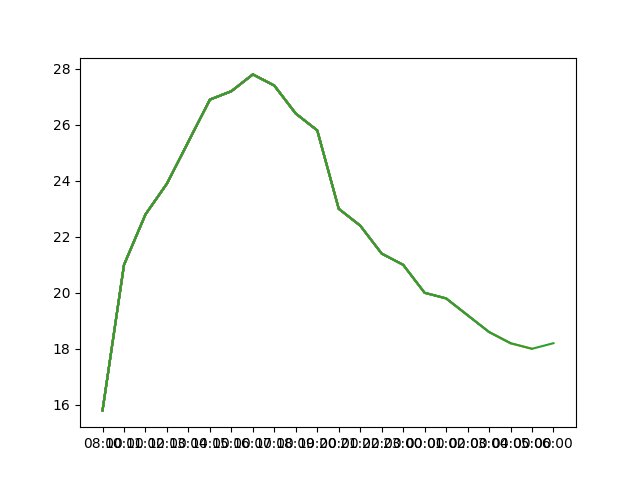
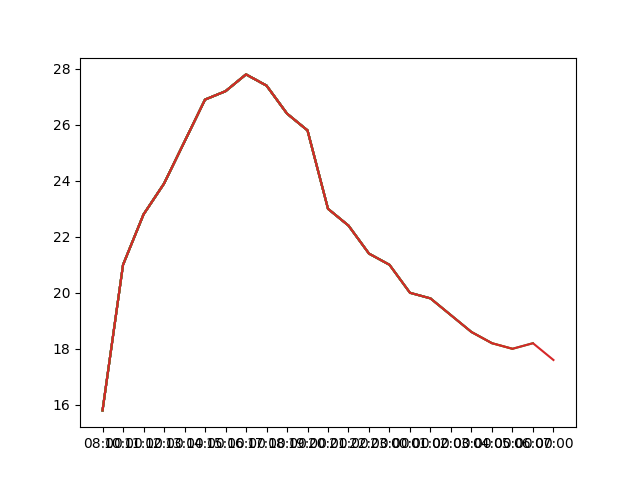
'updated'

diff --git a/index.html b/index.html
@@ -1,2 +1,2 @@
 <img src='graph.png'> 
-<table border="1"><tr><th>data</th><td><table border="1"><thead><tr><th>date</th><th>hour</th><th>weather</th><th>visibility</th><th>temp</th><th>unk</th><th>humidity</th><th>wind</th><th>pressure</th></tr></thead><tbody><tr><td>03-Abril-2021</td><td>08:00</td><td>Algo nublado con banco delgado de niebla</td><td>8 km</td><td>15.8</td><td>No se calcula</td><td>92.0</td><td>Sur  3</td><td>1014.5</td></tr><tr><td>03-Abril-2021</td><td>10:00</td><td>Despejado</td><td>15 km</td><td>21.0</td><td>No se calcula</td><td>71.0</td><td>Noreste  11</td><td>1014.8</td></tr><tr><td>03-Abril-2021</td><td>11:00</td><td>Despejado</td><td>15 km</td><td>22.8</td><td>No se calcula</td><td>66.0</td><td>Este  5</td><td>1014.6</td></tr><tr><td>03-Abril-2021</td><td>12:00</td><td>Algo nublado</td><td>15 km</td><td>23.9</td><td>No se calcula</td><td>61.0</td><td>Noreste  7</td><td>1014.2</td></tr><tr><td>03-Abril-2021</td><td>13:00</td><td>Algo nublado</td><td>15 km</td><td>25.4</td><td>No se calcula</td><td>55.0</td><td>Este  5</td><td>1013.6</td></tr><tr><td>03-Abril-2021</td><td>14:00</td><td>Algo nublado</td><td>15 km</td><td>26.9</td><td>27.3</td><td>49.0</td><td>Noreste  5</td><td>1012.8</td></tr><tr><td>03-Abril-2021</td><td>15:00</td><td>Algo nublado</td><td>15 km</td><td>27.2</td><td>26.4</td><td>42.0</td><td>Noreste  13</td><td>1012.0</td></tr><tr><td>03-Abril-2021</td><td>16:00</td><td>Algo nublado</td><td>15 km</td><td>27.8</td><td>No se calcula</td><td>36.0</td><td>Sudeste  9</td><td>1011.4</td></tr><tr><td>03-Abril-2021</td><td>17:00</td><td>Algo nublado</td><td>15 km</td><td>27.4</td><td>No se calcula</td><td>38.0</td><td>Este  7</td><td>1011.3</td></tr><tr><td>03-Abril-2021</td><td>18:00</td><td>Despejado</td><td>15 km</td><td>26.4</td><td>No se calcula</td><td>39.0</td><td>Sur  9</td><td>1011.3</td></tr><tr><td>03-Abril-2021</td><td>19:00</td><td>Despejado</td><td>15 km</td><td>25.8</td><td>No se calcula</td><td>43.0</td><td>Calma</td><td>1011.4</td></tr><tr><td>03-Abril-2021</td><td>20:00</td><td>Despejado</td><td>15 km</td><td>23.0</td><td>No se calcula</td><td>58.0</td><td>Sur  5</td><td>1011.8</td></tr><tr><td>03-Abril-2021</td><td>21:00</td><td>Algo nublado</td><td>15 km</td><td>22.4</td><td>No se calcula</td><td>62.0</td><td>Sur  7</td><td>1012.2</td></tr><tr><td>03-Abril-2021</td><td>22:00</td><td>Algo nublado</td><td>15 km</td><td>21.4</td><td>No se calcula</td><td>68.0</td><td>Calma</td><td>1012.8</td></tr><tr><td>03-Abril-2021</td><td>23:00</td><td>Despejado</td><td>15 km</td><td>21.0</td><td>No se calcula</td><td>73.0</td><td>Calma</td><td>1012.8</td></tr><tr><td>04-Abril-2021</td><td>00:00</td><td>Despejado</td><td>15 km</td><td>20.0</td><td>No se calcula</td><td>77.0</td><td>Sudeste  5</td><td>1012.6</td></tr><tr><td>04-Abril-2021</td><td>01:00</td><td>Algo nublado</td><td>15 km</td><td>19.8</td><td>No se calcula</td><td>76.0</td><td>Calma</td><td>1012.4</td></tr><tr><td>04-Abril-2021</td><td>02:00</td><td>Despejado</td><td>15 km</td><td>19.2</td><td>No se calcula</td><td>75.0</td><td>Calma</td><td>1012.1</td></tr><tr><td>04-Abril-2021</td><td>03:00</td><td>Algo nublado</td><td>15 km</td><td>18.6</td><td>No se calcula</td><td>82.0</td><td>Noreste  9</td><td>1012.0</td></tr><tr><td>04-Abril-2021</td><td>04:00</td><td>Algo nublado</td><td>15 km</td><td>18.2</td><td>No se calcula</td><td>83.0</td><td>Calma</td><td>1012.0</td></tr><tr><td>04-Abril-2021</td><td>05:00</td><td>Algo nublado</td><td>15 km</td><td>18.0</td><td>No se calcula</td><td>89.0</td><td>Calma</td><td>1011.8</td></tr><tr><td>04-Abril-2021</td><td>06:00</td><td>Algo nublado</td><td>15 km</td><td>18.2</td><td>No se calcula</td><td>91.0</td><td>Calma</td><td>1012.0</td></tr></tbody></table></td></tr></table>
+<table border="1"><tr><th>data</th><td><table border="1"><thead><tr><th>date</th><th>hour</th><th>weather</th><th>visibility</th><th>temp</th><th>unk</th><th>humidity</th><th>wind</th><th>pressure</th></tr></thead><tbody><tr><td>03-Abril-2021</td><td>08:00</td><td>Algo nublado con banco delgado de niebla</td><td>8 km</td><td>15.8</td><td>No se calcula</td><td>92.0</td><td>Sur  3</td><td>1014.5</td></tr><tr><td>03-Abril-2021</td><td>10:00</td><td>Despejado</td><td>15 km</td><td>21.0</td><td>No se calcula</td><td>71.0</td><td>Noreste  11</td><td>1014.8</td></tr><tr><td>03-Abril-2021</td><td>11:00</td><td>Despejado</td><td>15 km</td><td>22.8</td><td>No se calcula</td><td>66.0</td><td>Este  5</td><td>1014.6</td></tr><tr><td>03-Abril-2021</td><td>12:00</td><td>Algo nublado</td><td>15 km</td><td>23.9</td><td>No se calcula</td><td>61.0</td><td>Noreste  7</td><td>1014.2</td></tr><tr><td>03-Abril-2021</td><td>13:00</td><td>Algo nublado</td><td>15 km</td><td>25.4</td><td>No se calcula</td><td>55.0</td><td>Este  5</td><td>1013.6</td></tr><tr><td>03-Abril-2021</td><td>14:00</td><td>Algo nublado</td><td>15 km</td><td>26.9</td><td>27.3</td><td>49.0</td><td>Noreste  5</td><td>1012.8</td></tr><tr><td>03-Abril-2021</td><td>15:00</td><td>Algo nublado</td><td>15 km</td><td>27.2</td><td>26.4</td><td>42.0</td><td>Noreste  13</td><td>1012.0</td></tr><tr><td>03-Abril-2021</td><td>16:00</td><td>Algo nublado</td><td>15 km</td><td>27.8</td><td>No se calcula</td><td>36.0</td><td>Sudeste  9</td><td>1011.4</td></tr><tr><td>03-Abril-2021</td><td>17:00</td><td>Algo nublado</td><td>15 km</td><td>27.4</td><td>No se calcula</td><td>38.0</td><td>Este  7</td><td>1011.3</td></tr><tr><td>03-Abril-2021</td><td>18:00</td><td>Despejado</td><td>15 km</td><td>26.4</td><td>No se calcula</td><td>39.0</td><td>Sur  9</td><td>1011.3</td></tr><tr><td>03-Abril-2021</td><td>19:00</td><td>Despejado</td><td>15 km</td><td>25.8</td><td>No se calcula</td><td>43.0</td><td>Calma</td><td>1011.4</td></tr><tr><td>03-Abril-2021</td><td>20:00</td><td>Despejado</td><td>15 km</td><td>23.0</td><td>No se calcula</td><td>58.0</td><td>Sur  5</td><td>1011.8</td></tr><tr><td>03-Abril-2021</td><td>21:00</td><td>Algo nublado</td><td>15 km</td><td>22.4</td><td>No se calcula</td><td>62.0</td><td>Sur  7</td><td>1012.2</td></tr><tr><td>03-Abril-2021</td><td>22:00</td><td>Algo nublado</td><td>15 km</td><td>21.4</td><td>No se calcula</td><td>68.0</td><td>Calma</td><td>1012.8</td></tr><tr><td>03-Abril-2021</td><td>23:00</td><td>Despejado</td><td>15 km</td><td>21.0</td><td>No se calcula</td><td>73.0</td><td>Calma</td><td>1012.8</td></tr><tr><td>04-Abril-2021</td><td>00:00</td><td>Despejado</td><td>15 km</td><td>20.0</td><td>No se calcula</td><td>77.0</td><td>Sudeste  5</td><td>1012.6</td></tr><tr><td>04-Abril-2021</td><td>01:00</td><td>Algo nublado</td><td>15 km</td><td>19.8</td><td>No se calcula</td><td>76.0</td><td>Calma</td><td>1012.4</td></tr><tr><td>04-Abril-2021</td><td>02:00</td><td>Despejado</td><td>15 km</td><td>19.2</td><td>No se calcula</td><td>75.0</td><td>Calma</td><td>1012.1</td></tr><tr><td>04-Abril-2021</td><td>03:00</td><td>Algo nublado</td><td>15 km</td><td>18.6</td><td>No se calcula</td><td>82.0</td><td>Noreste  9</td><td>1012.0</td></tr><tr><td>04-Abril-2021</td><td>04:00</td><td>Algo nublado</td><td>15 km</td><td>18.2</td><td>No se calcula</td><td>83.0</td><td>Calma</td><td>1012.0</td></tr><tr><td>04-Abril-2021</td><td>05:00</td><td>Algo nublado</td><td>15 km</td><td>18.0</td><td>No se calcula</td><td>89.0</td><td>Calma</td><td>1011.8</td></tr><tr><td>04-Abril-2021</td><td>06:00</td><td>Algo nublado</td><td>15 km</td><td>18.2</td><td>No se calcula</td><td>91.0</td><td>Calma</td><td>1012.0</td></tr><tr><td>04-Abril-2021</td><td>07:00</td><td>Algo nublado</td><td>15 km</td><td>17.6</td><td>No se calcula</td><td>93.0</td><td>Sudeste  5</td><td>1012.6</td></tr></tbody></table></td></tr></table>
